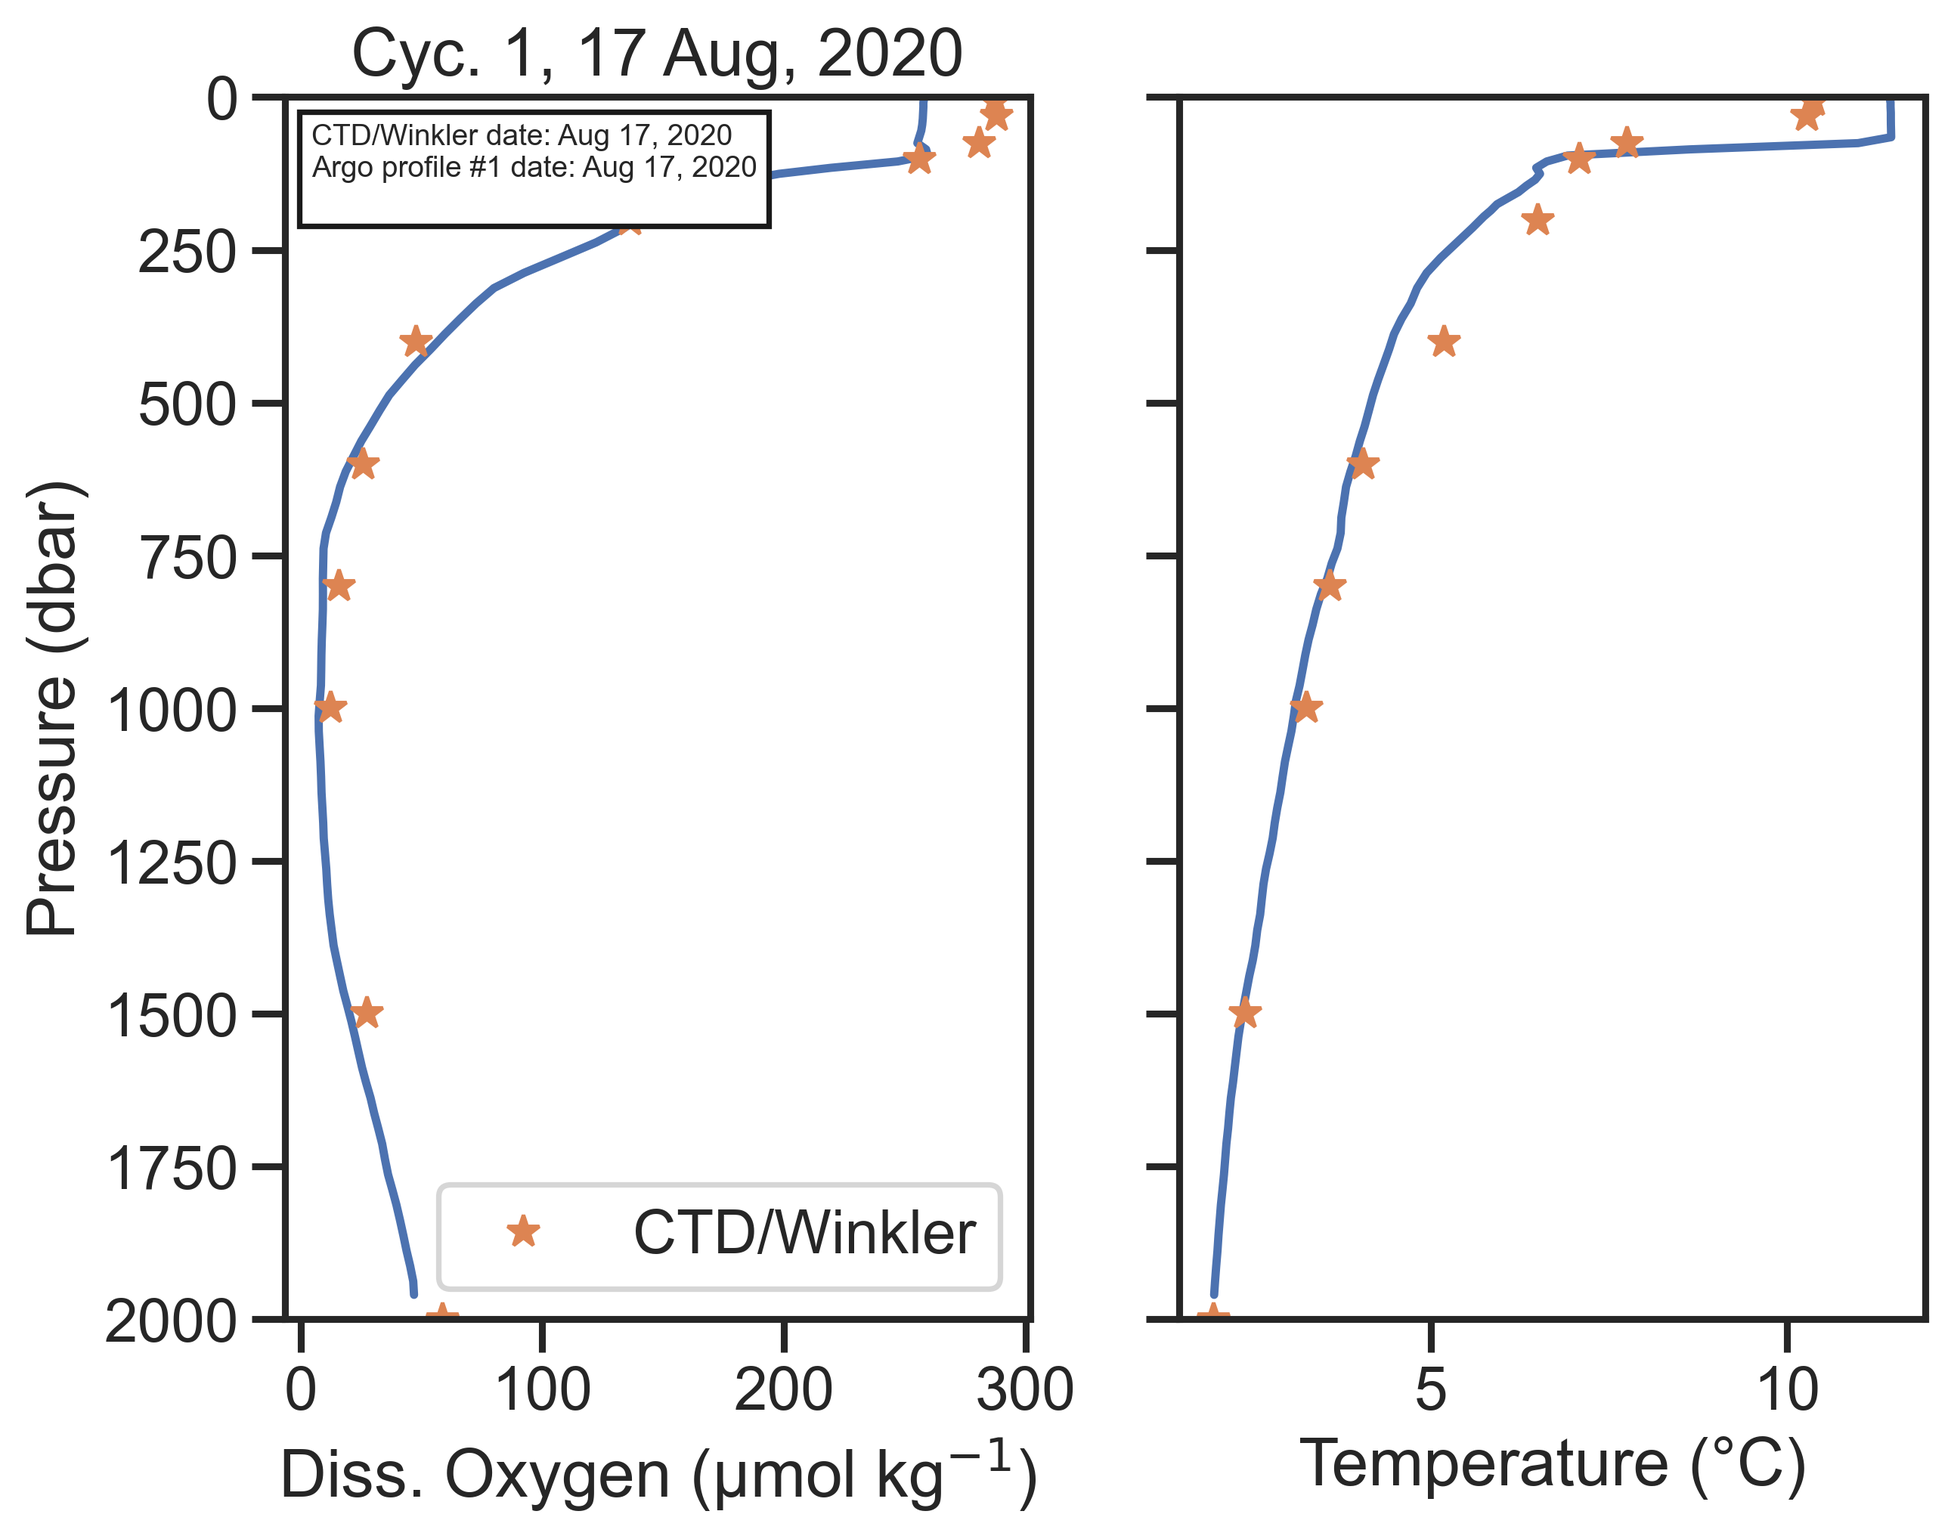
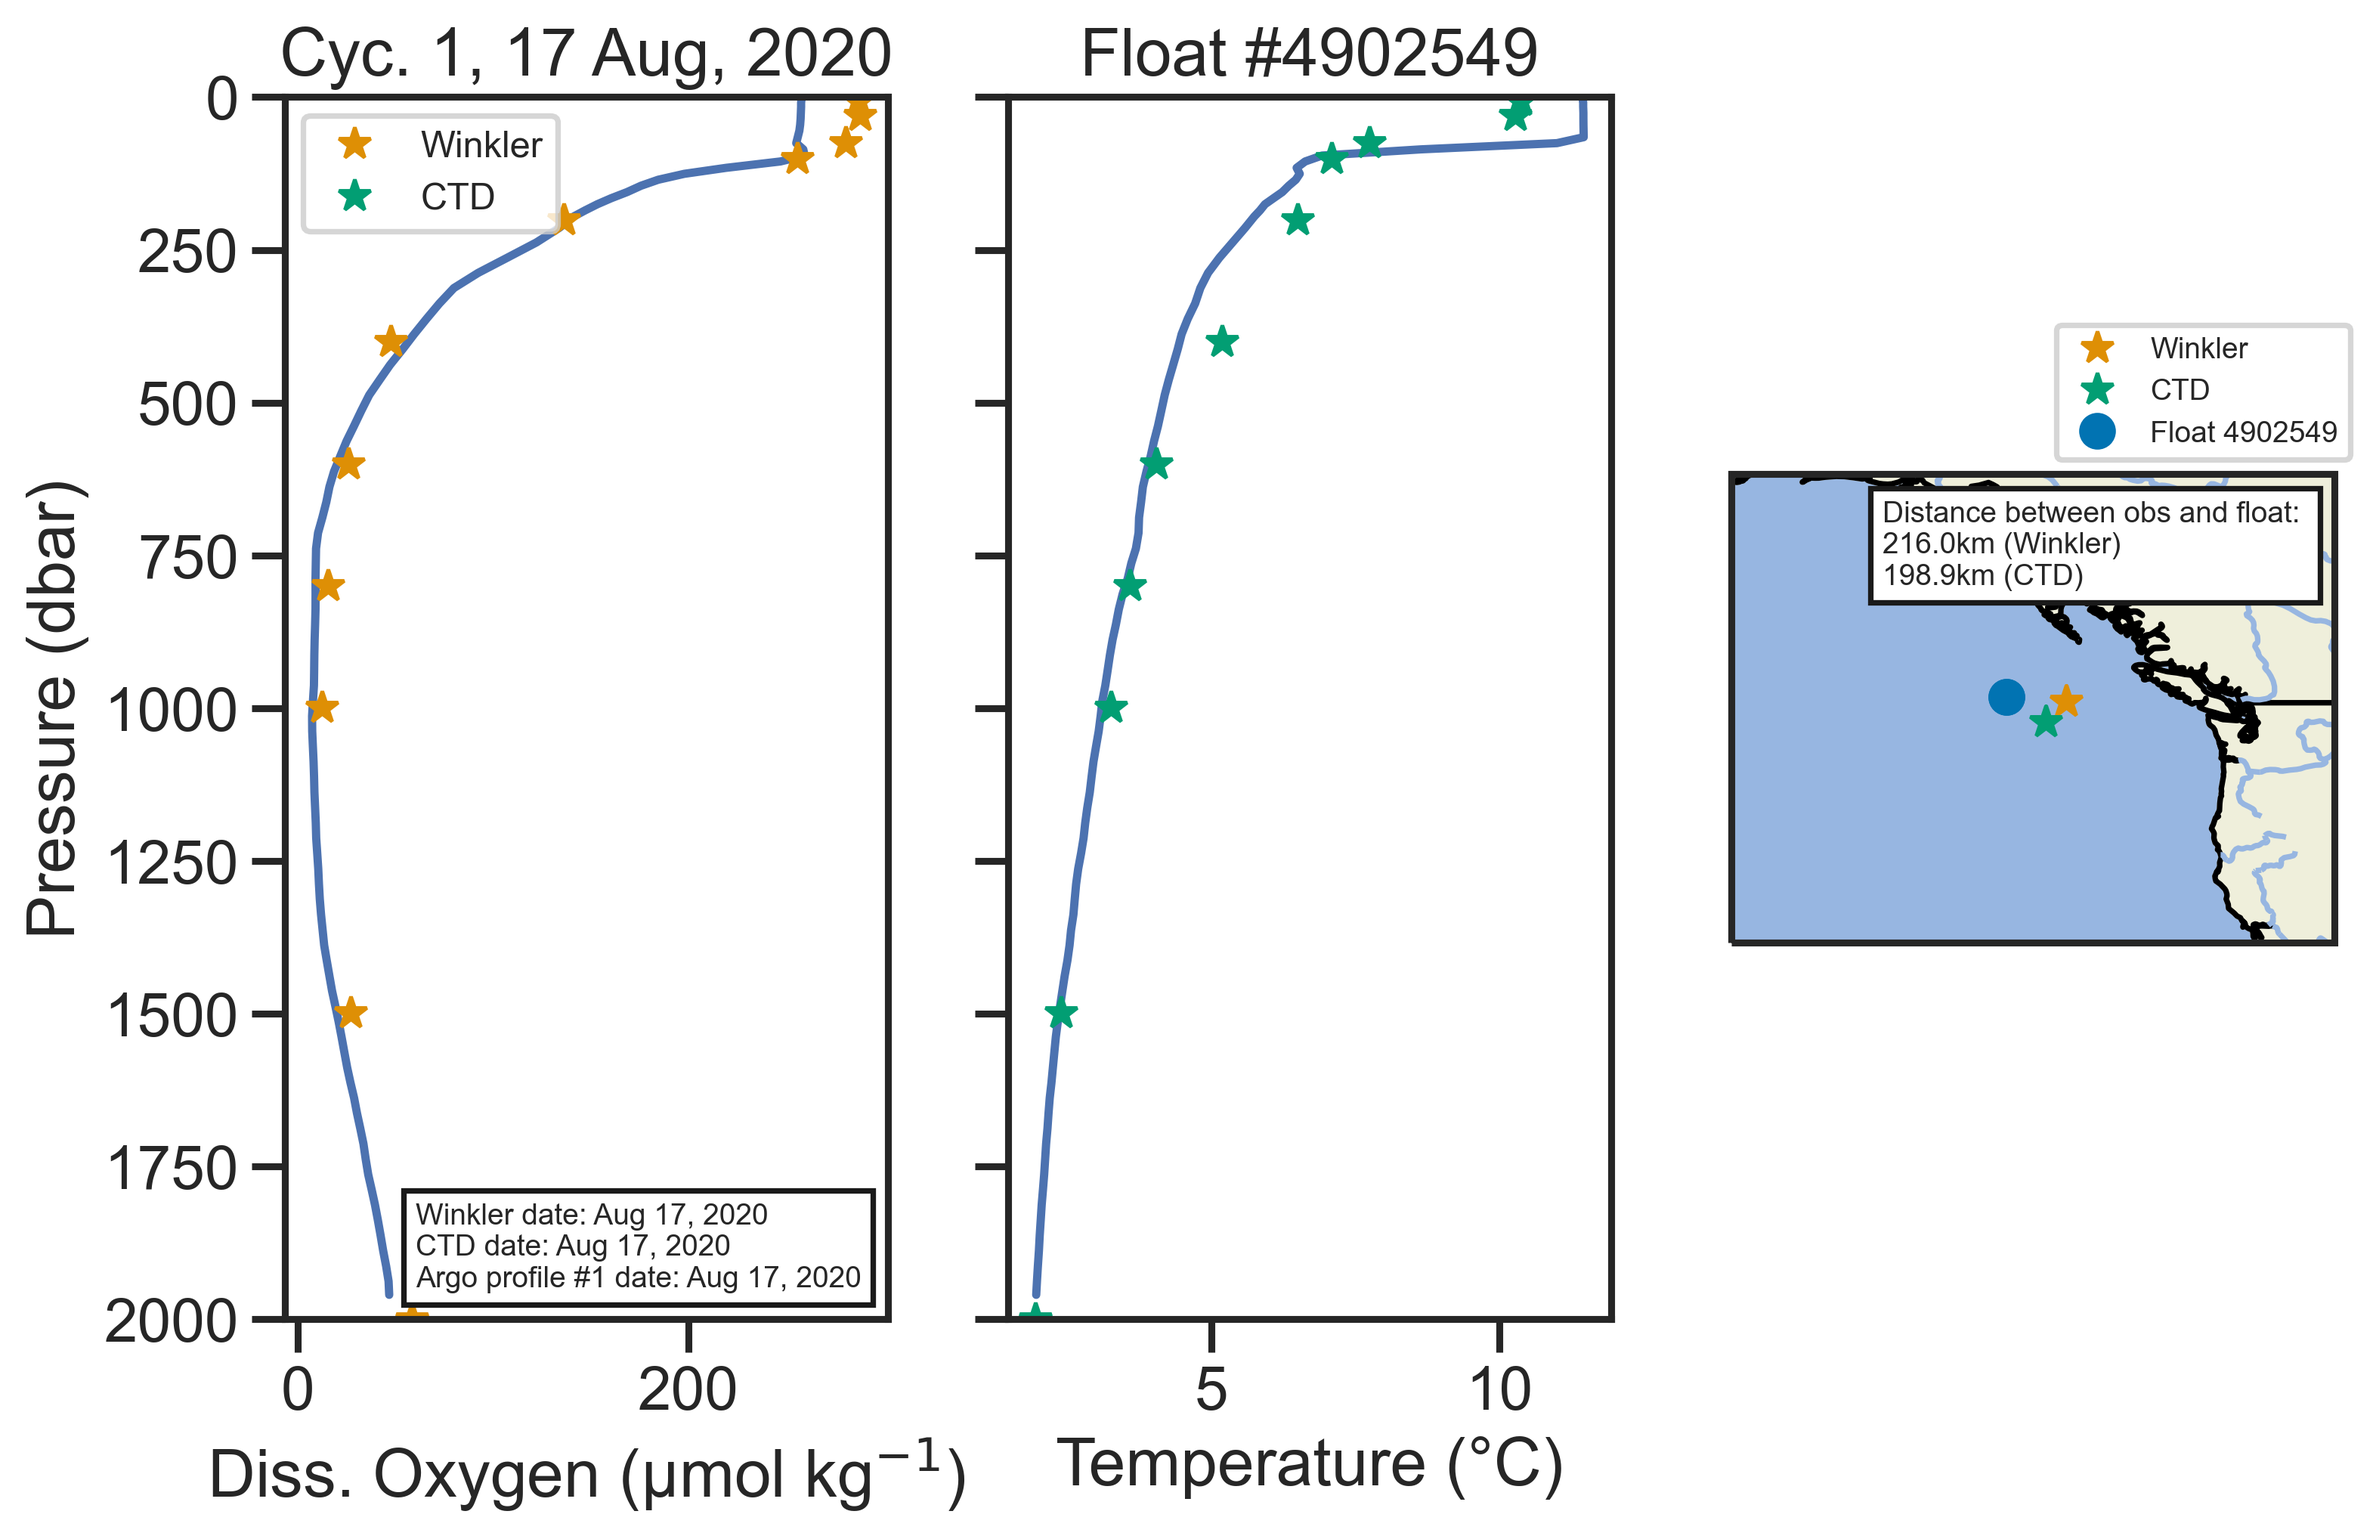
figure updates

Changed region(s): [[0.0, 0.0, 0.9919, 0.9902], [0.4649, 0.2475, 0.4959, 0.4641], [0.4959, 0.1547, 0.5269, 0.2475]]

diff --git a/admt/presentation_figures.py b/admt/presentation_figures.py
@@ -12,7 +12,7 @@ from netCDF4 import Dataset
 import bgcArgoDMQC as bgc
 
 sns.set(context='talk', style='ticks')
-'''
+
 datapath = Path('/Users/gordonc/Documents/data/')
 bgc.set_dirs(
     argo_path=datapath / 'Argo',
@@ -22,7 +22,7 @@ bgc.set_dirs(
 
 
 ### GAIN PLOT ###
-
+'''
 # will load a synthetic (Sprof) file
 syn  = bgc.sprof(4902481)
 # calculate the gain using in-air data
@@ -33,7 +33,7 @@ g = syn.plot('gain', ref='NCEP')
 # save figure
 g.fig.savefig(Path('figures/gain_example.png'), bbox_inches='tight', dpi=350)
 plt.close(g.fig)
-
+'''
 ### INDEPENDENT DATA ###
 
 files = list(Path('/Users/gordonc/Documents/data/Ship/PacOxyFloats/').glob('*chem*'))
@@ -54,9 +54,27 @@ mll  = df['Oxygen:Dissolved (mL/L)']
 temp = df['Temperature:Secondary (\'deg)']
 psal = df['Salinity:Bottle (PSS-78)']
 pres = df['Pressure (decibar)']
-'''
-### RESPONSE TIME ###
 
+doxy = bgc.unit.mL_per_L_to_umol_per_L(mll, temp)
+
+syn.add_independent_data(label='Winkler', date=time, lat=lat, lon=lon, DOXY=doxy, PRES=pres)
+syn.add_independent_data(label='CTD', date=time, lat=lat-1, lon=lon-1, TEMP=temp, PRES=pres)
+fig, axes = syn.compare_independent_data()
+
+for ax in axes[1:]:
+    ax.set_title('')
+    ax.set_ylabel('')
+    ax.set_yticklabels([])
+
+axes[1].set_title(f'Float #{wmo}')
+
+fig.set_size_inches(10,6)
+fig.savefig(Path('figures/independent_example.png'), bbox_inches='tight', dpi=350)
+
+plt.close()
+
+### RESPONSE TIME ###
+'''
 # load some time-resolved APEX data from GoM
 fn = Path('/Users/gordonc/Documents/data/GoMRI/Sprof/f7939_Sprof.nc')
 nc = Dataset(fn)
@@ -88,4 +106,4 @@ axes[0].set_xlabel('Diss. Oxygen ($\mathregular{\mu}$mol kg$^{-1}$)')
 axes[1].set_xlabel('Temperature ({}C)'.format(chr(176)))
 axes[0].set_ylabel('Pressure (dbar)')
 
-fig.savefig(Path('figures/response_time_corr.png'), bbox_inches='tight', dpi=350)
+fig.savefig(Path('figures/response_time_corr.png'), bbox_inches='tight', dpi=350)'''
